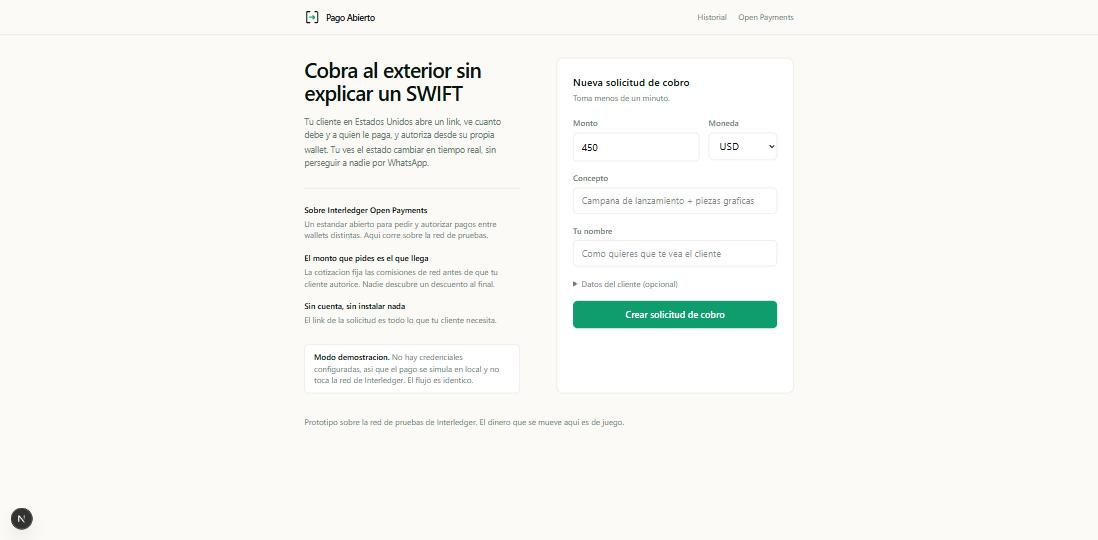
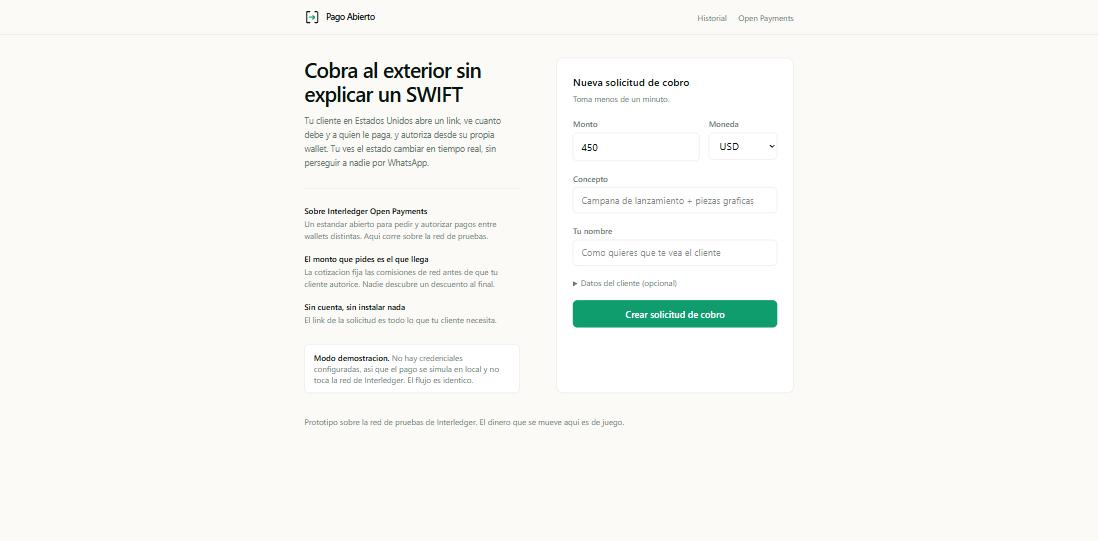
docs: capturas desde produccion y enlace al demo
Las capturas ahora salen del despliegue real, con clientes de demostracion de Cali y el aviso que deja claro que los porcentajes no son metricas de uso.

diff --git a/README.md b/README.md
@@ -6,6 +6,8 @@
 sobre [Interledger Open Payments](https://openpayments.dev), para freelancers en
 LATAM que facturan a clientes en Estados Unidos y Europa.
 
+**→ [pago-abierto-mvp.vercel.app](https://pago-abierto-mvp.vercel.app)**
+
 ---
 
 ## El problema
